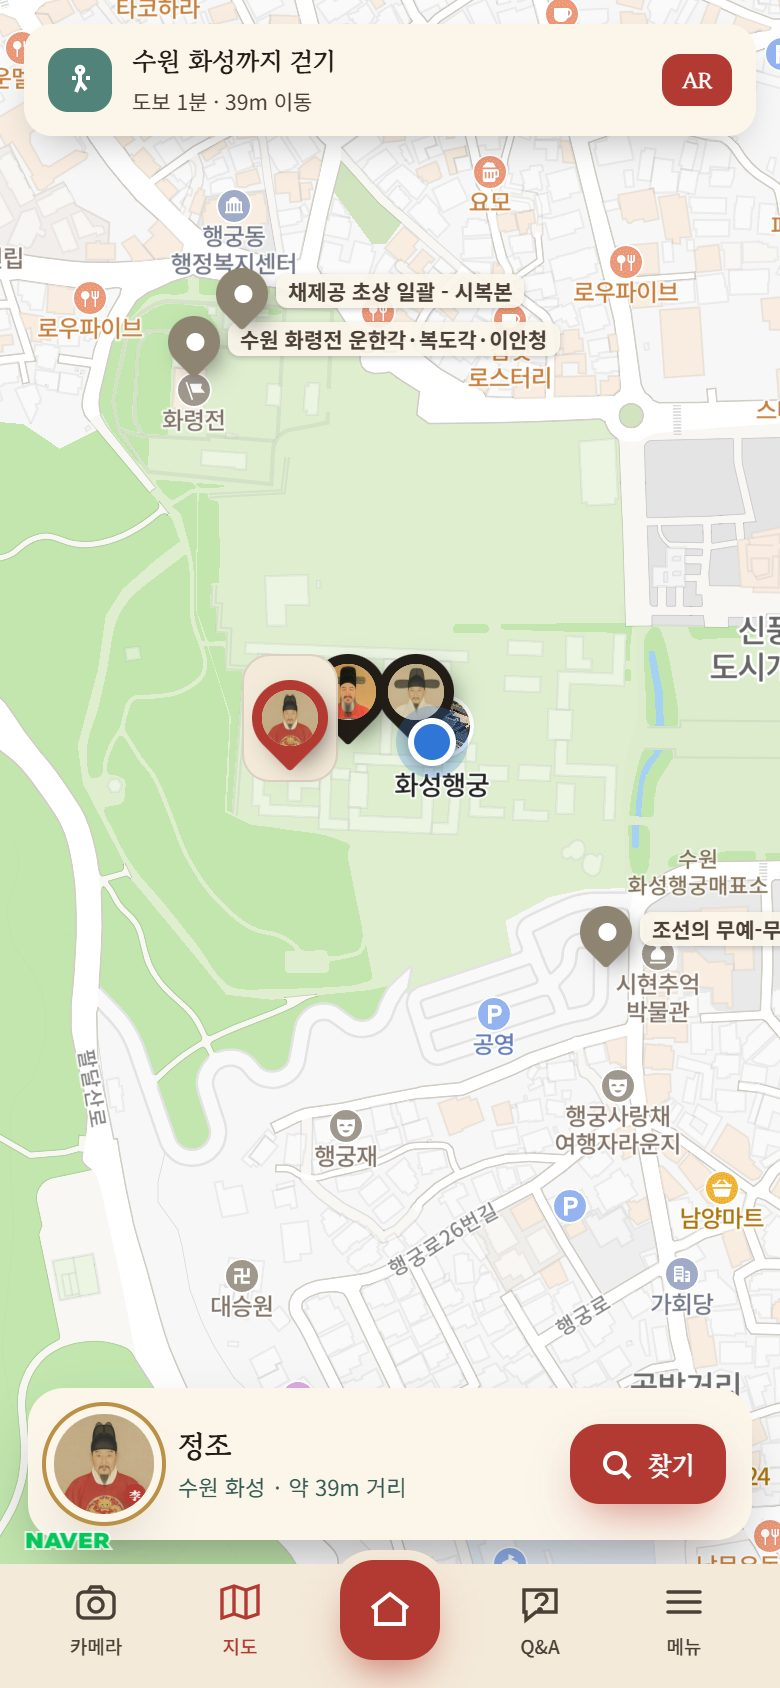
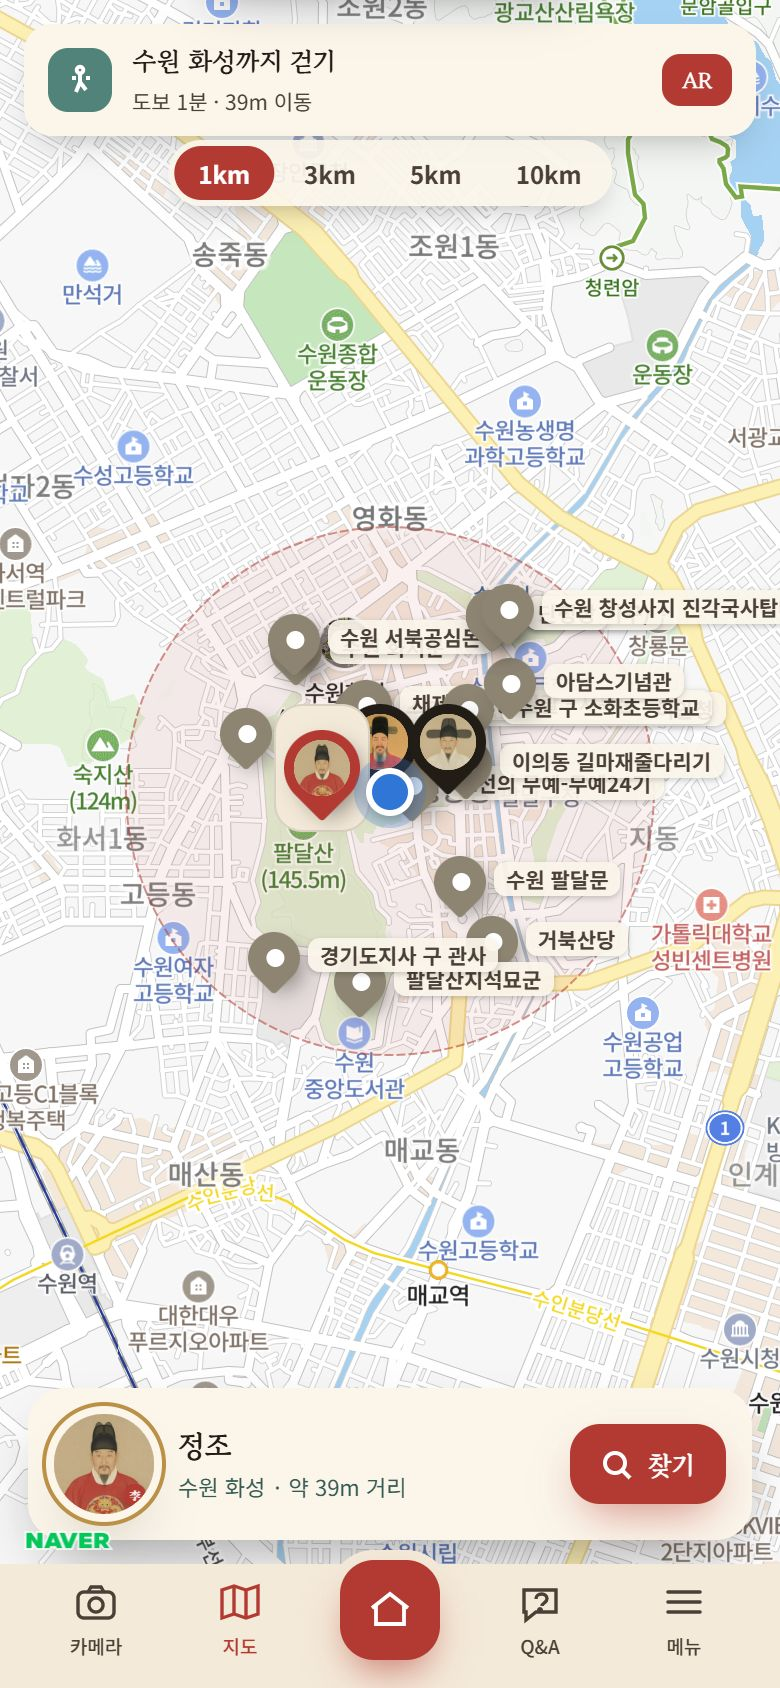
지도 표시 반경 원(1·3·5·10km): 반투명 영역 표시, 반경 안 유적만 핀, AR 반경과 공유

diff --git a/src/screens/map.ts b/src/screens/map.ts
@@ -6,10 +6,11 @@ import { go, type Screen } from '../router.ts';
 import { esc, walkMinutes } from '../ui/dom.ts';
 import { icons } from '../ui/icons.ts';
 import { medal } from '../ui/medal.ts';
+import { RADII, radiusLabel, saveRadius, savedRadius } from '../radius.ts';
 import { onPosition } from './home.ts';
 
-/** 지도에 함께 표시할 일반 유적지 반경 */
-const SITE_RADIUS = 3000;
+/** 반경 안의 일반 유적지 핀은 가까운 순으로 이만큼만 (10km 는 수백 곳이라 지도가 느려진다) */
+const SITE_PIN_MAX = 150;
 let activeId: string | undefined;
 
 /** 4. 지도 — 인물 핑 · AR 길찾기 */
@@ -19,6 +20,9 @@ export const mapScreen: Screen = {
     root.innerHTML = `<div class="scr map-scr">
       <div class="map">
         <div class="route-head" hidden></div>
+        <div class="map-radius" role="group" aria-label="표시 반경" hidden>${RADII.map(
+          (r) => `<button data-r="${r}">${radiusLabel(r)}</button>`,
+        ).join('')}</div>
         <div class="map-notice" hidden></div>
         <div class="card" hidden></div>
       </div>
@@ -30,6 +34,13 @@ export const mapScreen: Screen = {
     const qSite = query.get('site');
     if (qFig && app.figureById.has(qFig)) activeId = qFig;
     activeId ??= app.nearbyFigures()[0]?.figure.id;
+
+    // 표시 반경 (AR 화면과 같은 값)
+    let radius = savedRadius();
+    const radiusBox = root.querySelector<HTMLElement>('.map-radius')!;
+    const markRadius = () =>
+      radiusBox.querySelectorAll<HTMLElement>('button').forEach((b) => b.classList.toggle('on', Number(b.dataset.r) === radius));
+    markRadius();
 
     const renderCard = () => {
       const f = activeId ? app.figureById.get(activeId) : undefined;
@@ -73,10 +84,14 @@ export const mapScreen: Screen = {
       );
       const figureSites = new Set(app.figures.flatMap((f) => f.sites.map((s) => s.id)));
       heritageMap.setSites(
-        app.nearbySites(SITE_RADIUS).filter((s) => !figureSites.has(s.id)),
+        app.nearbySites(radius).filter((s) => !figureSites.has(s.id)).slice(0, SITE_PIN_MAX),
         openHeritage,
       );
-      if (app.pos) heritageMap.setMe(app.pos);
+      if (app.pos) {
+        heritageMap.setMe(app.pos);
+        heritageMap.setRadius(app.pos, radius);
+      }
+      radiusBox.hidden = !app.pos;
     };
 
     let first = true;
@@ -93,6 +108,17 @@ export const mapScreen: Screen = {
         }
       }
     };
+
+    // 반경을 바꾸면 원이 화면에 꽉 차게 맞춘다 (AR 화면의 반경도 같이 바뀐다)
+    radiusBox.addEventListener('click', (e) => {
+      const b = (e.target as HTMLElement).closest<HTMLElement>('[data-r]');
+      if (!b) return;
+      radius = Number(b.dataset.r);
+      saveRadius(radius);
+      markRadius();
+      renderPins();
+      if (app.pos) heritageMap.fitRadius(app.pos, radius);
+    });
 
     heritageMap
       .init()

diff --git a/src/naverMap.ts b/src/naverMap.ts
@@ -49,6 +49,7 @@ class HeritageMap {
   private me?: any;
   private figureMarkers = new Map<string, any>();
   private siteMarkers: any[] = [];
+  private circle?: any;
   private initPromise?: Promise<void>;
 
   init(): Promise<void> {
@@ -67,6 +68,10 @@ class HeritageMap {
         mapDataControl: false,
         logoControlOptions: { position: maps.Position.BOTTOM_LEFT },
       });
+      // 넓게 볼 때(반경 5·10km)는 일반 유적 이름표를 숨겨 겹침을 줄인다 — 확대하면 다시 보인다
+      const zoomClass = () => this.el.classList.toggle('far', this.map.getZoom() < 13);
+      maps.Event.addListener(this.map, 'zoom_changed', zoomClass);
+      zoomClass();
     });
     return this.initPromise;
   }
@@ -136,23 +141,60 @@ class HeritageMap {
     });
   }
 
+  /** 내 위치를 중심으로 한 표시 반경 — 반투명 영역 */
+  setRadius(pos: Position, meters: number) {
+    if (!this.map) return;
+    const { maps } = this;
+    const center = new maps.LatLng(pos.lat, pos.lng);
+    if (!this.circle) {
+      this.circle = new maps.Circle({
+        map: this.map,
+        center,
+        radius: meters,
+        fillColor: '#b23a32',
+        fillOpacity: 0.08,
+        strokeColor: '#b23a32',
+        strokeOpacity: 0.55,
+        strokeWeight: 1.5,
+        strokeStyle: 'shortdash',
+        clickable: false,
+        zIndex: 1,
+      });
+    } else {
+      this.circle.setCenter(center);
+      this.circle.setRadius(meters);
+    }
+  }
+
+  /** 반경 원이 화면에 꽉 차게 */
+  fitRadius(pos: Position, meters: number) {
+    const dLat = meters / 111_320;
+    const dLng = meters / (111_320 * Math.cos((pos.lat * Math.PI) / 180));
+    this.fitPoints(
+      [
+        { lat: pos.lat - dLat, lng: pos.lng - dLng },
+        { lat: pos.lat + dLat, lng: pos.lng + dLng },
+      ],
+      0,
+    );
+  }
+
   panTo(lat: number, lng: number) {
     this.map?.panTo(new this.maps.LatLng(lat, lng));
   }
 
   /** 두 지점이 모두 보이도록 (카드·상단 안내 영역 여백 포함) */
-  fitPoints(points: { lat: number; lng: number }[]) {
+  fitPoints(points: { lat: number; lng: number }[], pad = 0.0015) {
     if (!this.map || !points.length) return;
     const { maps } = this;
     const lats = points.map((p) => p.lat);
     const lngs = points.map((p) => p.lng);
-    const pad = 0.0015;
     this.map.fitBounds(
       new maps.LatLngBounds(
         new maps.LatLng(Math.min(...lats) - pad, Math.min(...lngs) - pad),
         new maps.LatLng(Math.max(...lats) + pad, Math.max(...lngs) + pad),
       ),
-      { top: 90, right: 30, bottom: 130, left: 30 },
+      { top: 120, right: 20, bottom: 110, left: 20 },
     );
   }
 }

diff --git a/src/style.css b/src/style.css
@@ -290,6 +290,14 @@ body.fullscreen .nav { display: none; }
   margin-left: auto; background: var(--cinnabar); color: #fff; font-weight: 700; font-size: 11px; border: 0;
   padding: 5px 10px; border-radius: 9px; font-family: var(--serif);
 }
+/* 표시 반경 선택 (지도 위 반투명 원과 연동) */
+.map-radius {
+  position: absolute; top: calc(70px + var(--safe-t)); left: 50%; transform: translateX(-50%); z-index: 8;
+  display: flex; gap: 3px; padding: 3px; border-radius: 20px; background: rgba(251, 245, 234, 0.92);
+  box-shadow: 0 6px 14px -6px rgba(0, 0, 0, 0.3);
+}
+.map-radius button { border: 0; background: none; color: var(--ink-soft); font-size: 12px; font-weight: 600; padding: 5px 12px; border-radius: 16px; }
+.map-radius button.on { background: var(--cinnabar); color: #fff; }
 .map .card {
   position: absolute; z-index: 9; left: 14px; right: 14px; bottom: 12px; background: var(--paper-card);
   border-radius: 18px; padding: 13px; display: flex; align-items: center; gap: 12px; box-shadow: 0 16px 34px -12px rgba(0, 0, 0, 0.4);
@@ -315,6 +323,7 @@ body.fullscreen .nav { display: none; }
 .ping.site .pin { width: 26px; height: 26px; }
 .pin.no { background: #8d8472 !important; }
 .pin .pdot { width: 9px; height: 9px; border-radius: 50%; background: #fff; }
+.map-canvas.far .ping.site .ping-label { display: none; }
 .ping-label {
   position: absolute; left: 30px; top: 3px; white-space: nowrap; font-size: 10.5px; font-weight: 600;
   padding: 1px 6px; border-radius: 6px; background: rgba(251, 245, 234, 0.92); color: var(--ink-soft); box-shadow: 0 1px 3px rgba(0, 0, 0, 0.2);

diff --git a/src/screens/ar.ts b/src/screens/ar.ts
@@ -8,18 +8,8 @@ import { esc } from '../ui/dom.ts';
 import { icons } from '../ui/icons.ts';
 import { immersive } from '../ui/immersive.ts';
 import { medal } from '../ui/medal.ts';
+import { RADII, saveRadius, savedRadius } from '../radius.ts';
 import { onPosition } from './home.ts';
-
-const RADII = [1000, 3000, 5000, 10000];
-const RADIUS_KEY = 'yeoksadam:ar-radius';
-function savedRadius(): number {
-  try {
-    const r = Number(localStorage.getItem(RADIUS_KEY));
-    return RADII.includes(r) ? r : 10000;
-  } catch {
-    return 10000;
-  }
-}
 
 /**
  * AR 탐색 — 카메라로 비추면 반경 안의 유적지를 표시하고, 누르면 안내·길찾기·대화.
@@ -102,11 +92,7 @@ export const arScreen: Screen = {
       b.addEventListener('click', () => {
         radius = Number(b.dataset.r);
         engine.radius = radius;
-        try {
-          localStorage.setItem(RADIUS_KEY, String(radius));
-        } catch {
-          /* 저장 불가 환경 */
-        }
+        saveRadius(radius);
         root.querySelectorAll('.ar-radius button').forEach((x) => x.classList.toggle('on', x === b));
         update();
       }),

diff --git a/src/radius.ts b/src/radius.ts
@@ -1,0 +1,25 @@
+/**
+ * 표시 반경 (1·3·5·10km) — AR 화면과 지도 화면이 같은 값을 쓴다.
+ * 한쪽에서 바꾸면 다른 쪽에도 그대로 이어진다.
+ */
+export const RADII = [1000, 3000, 5000, 10000];
+const KEY = 'yeoksadam:ar-radius';
+
+export function savedRadius(): number {
+  try {
+    const r = Number(localStorage.getItem(KEY));
+    return RADII.includes(r) ? r : 10000;
+  } catch {
+    return 10000;
+  }
+}
+
+export function saveRadius(r: number) {
+  try {
+    localStorage.setItem(KEY, String(r));
+  } catch {
+    /* 저장 불가 환경 */
+  }
+}
+
+export const radiusLabel = (r: number) => `${r / 1000}km`;

diff --git a/USAGE.md b/USAGE.md
@@ -62,6 +62,10 @@
 <td>
 
 - 네이버 지도 위에 주변 유적이 표시되고, 파란 점이 내 위치입니다.
+- 위쪽 **1km · 3km · 5km · 10km** 로 표시 반경을 고릅니다.
+  - 내 위치를 중심으로 **반투명 붉은 원**이 그 영역을 보여 주고, 원이 화면에 꽉 차게 지도가 맞춰집니다.
+  - 원 안의 유적만 핀으로 나옵니다 (가까운 순 최대 150곳). 넓게 볼 때는 유적 이름을 숨기고, 확대하면 다시 보입니다.
+  - 고른 반경은 **AR 화면의 반경과 같이** 바뀝니다.
 - 초상 표시는 인물과 관련된 유적입니다. 표시를 누르면 **유적 상세 카드**가 열립니다.
 - 위쪽 안내 막대: 선택한 인물의 유적까지 **걷는 시간·거리**. **AR** 버튼으로 카메라 길 안내로 바꿉니다.
 - 아래 카드의 **찾기** 는 그 인물이 있는 유적으로 안내를 시작합니다.
